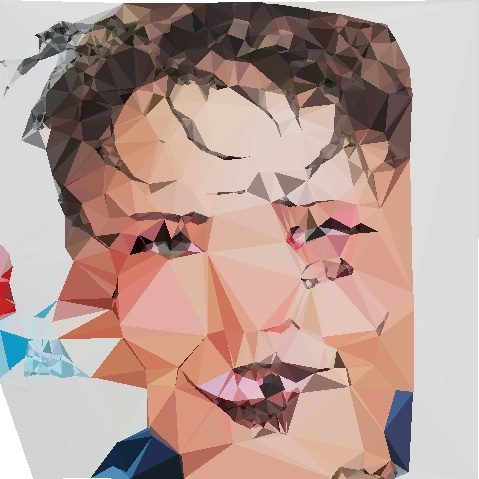
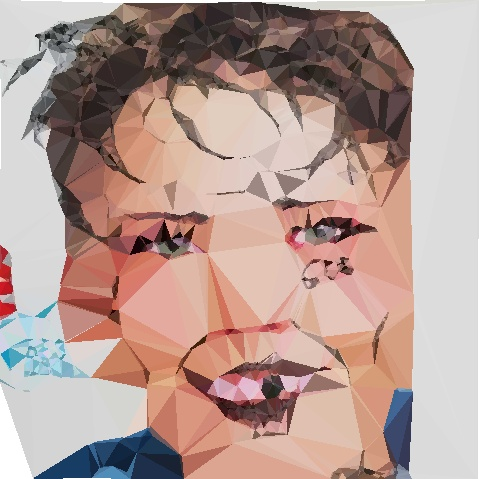
Fix triangulation and all borders

diff --git a/gui.py b/gui.py
@@ -31,7 +31,7 @@ def rect_contains(rect, point):
 def draw_delaunay(img, subdiv, delaunay_color):
     triangleList = subdiv.getTriangleList();
     height, width = img.shape[:2]
-    r = (0, 0, height, width)
+    r = (0, 0, width, height)
 
     for t in triangleList:
         pt1 = (t[0], t[1])
@@ -46,7 +46,7 @@ def draw_delaunay(img, subdiv, delaunay_color):
 def draw_all(inputImg, outputImg, subdiv):
     triangleList = subdiv.getTriangleList();
     height, width = inputImg.shape[:2]
-    r = (0, 0, height, width)
+    r = (0, 0, width, height)
 
     for t in triangleList:
         pt1 = (t[0], t[1])
@@ -95,11 +95,12 @@ def triangulation():
     points = []
 
     for cnt in contours:
-        approx = cv2.approxPolyDP(cnt,0.07*cv2.arcLength(cnt,True),True)
+        approx = cv2.approxPolyDP(cnt,0.03*cv2.arcLength(cnt,True),True)
         for point in approx:
             points.append((point[0][0],point[0][1]))
 
     rect = (0, 0, width, height)
+    print(rect)
 
     subdiv = cv2.Subdiv2D(rect);
 
@@ -135,7 +136,7 @@ def allEffects():
     inputImg = cv2.imread(fileChosen)
     height, width = inputImg.shape[:2]
 
-    outputImg = np.zeros((width,height,3), dtype=np.uint8)
+    outputImg = np.zeros((height,width,3), dtype=np.uint8)
     outputImg.fill(255)
 
     edges = cv2.Canny(inputImg, 100, 200)
@@ -145,7 +146,7 @@ def allEffects():
     points = []
 
     for cnt in contours:
-        approx = cv2.approxPolyDP(cnt,0.07*cv2.arcLength(cnt,True),True)
+        approx = cv2.approxPolyDP(cnt,0.03*cv2.arcLength(cnt,True),True)
         for point in approx:
             points.append((point[0][0],point[0][1]))
 
